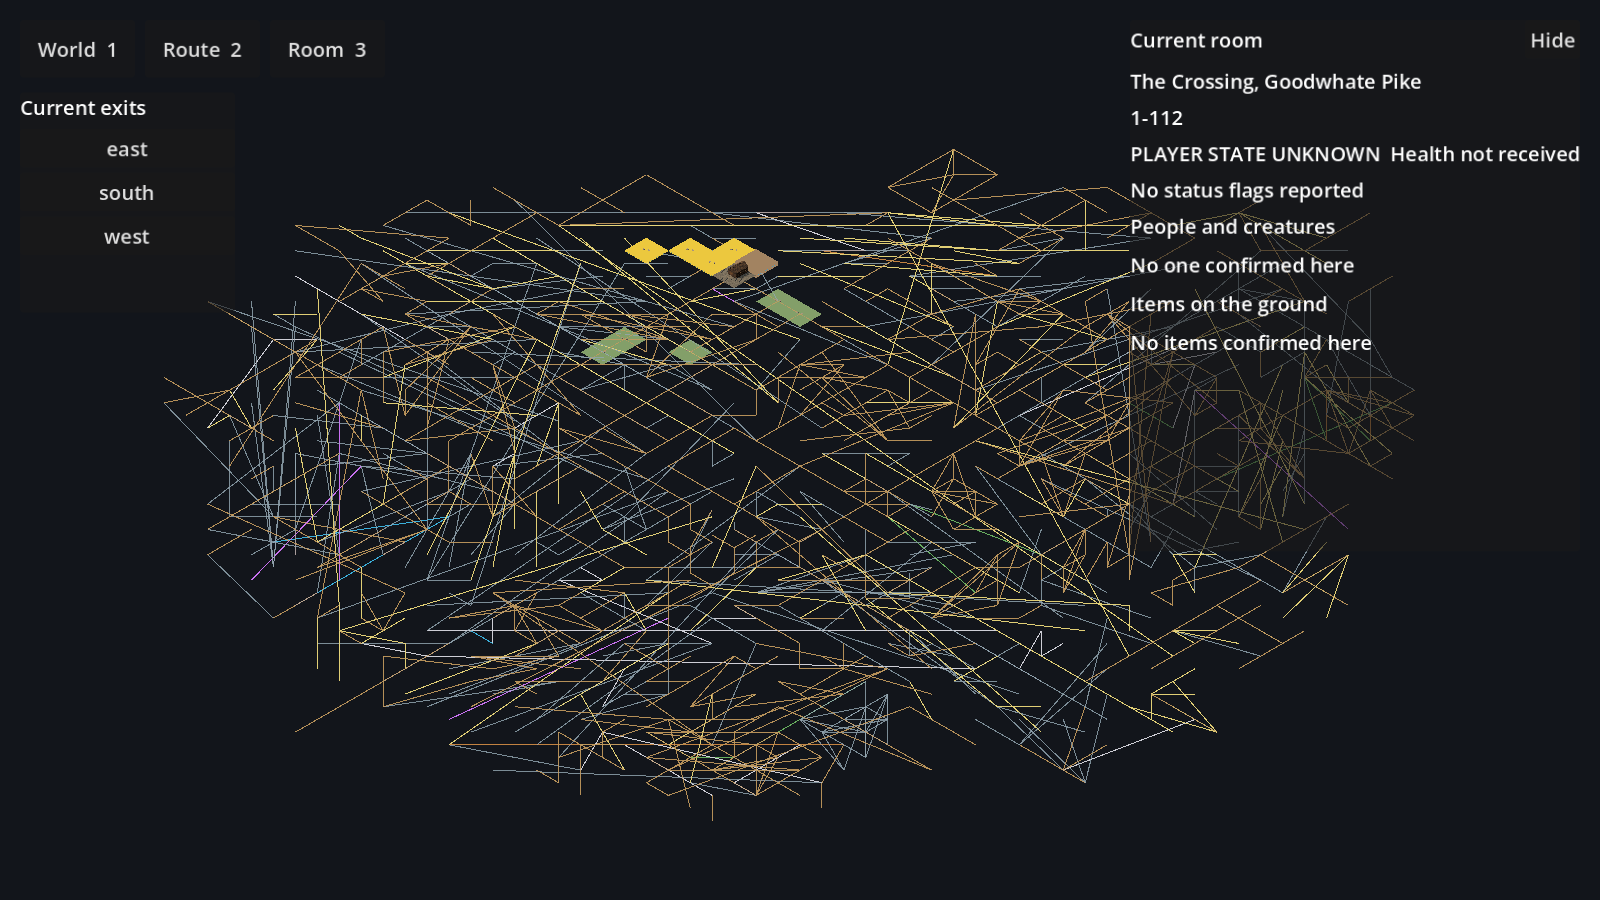
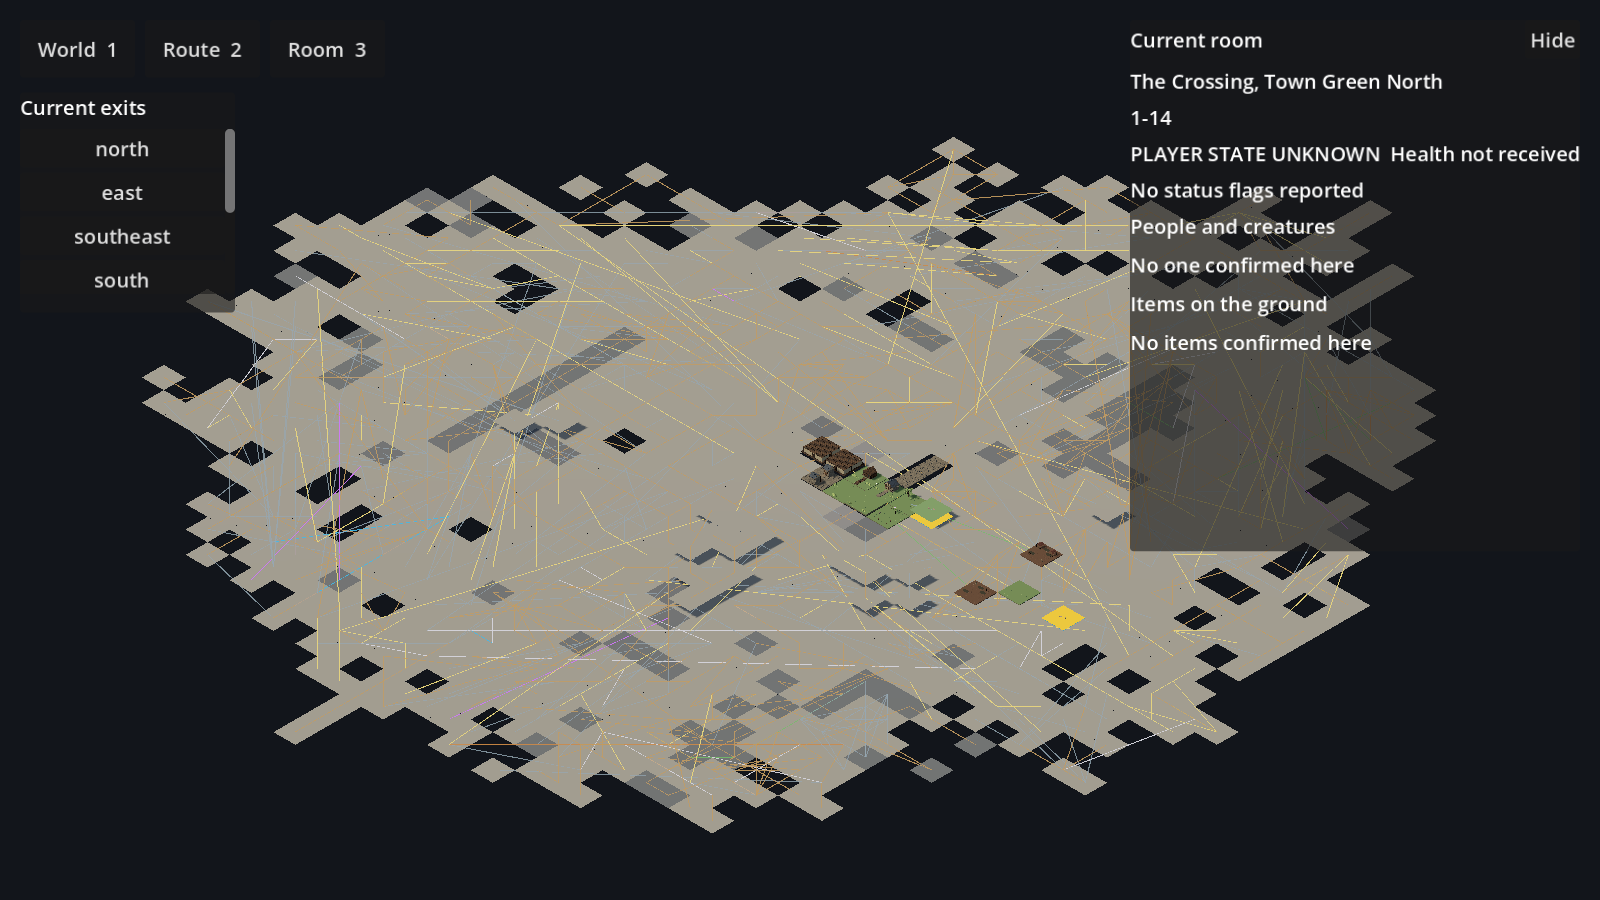
Keep truthful full-city footprints visible beyond the detail window

diff --git a/docs/verification/crossing-native-content.md b/docs/verification/crossing-native-content.md
@@ -400,6 +400,27 @@ silently enlarge scenery beyond known bounds.
 
 ## Reproduce
 
+### City-wide overview occupancy
+
+Every loaded room now retains one base-only overview representation through
+the existing ContentRegistry factory path. Detailed room mounting hides it;
+unmounting detail restores it. No additional landmarks, buildings, items,
+characters, exits or navigation are synthesized. The source board footprint
+remains authoritative. Missing-description cells use a darker neutral color;
+other unbuilt overview surfaces are neutral too, not a claim that every outdoor
+room is grass. An initial green/brown overview was rejected as misleading and
+replaced by this abstract treatment.
+
+This closes the visibility hole where most of the city became route lines
+over empty space. It does not close any room's art-completion gate: the full
+city still needs deliberate geography, streets, architecture and furnishings.
+The overview carries `base-only; not completed room art` metadata. The existing
+full-city content test checks all 1,060 overview holders, exactly one declared
+base each and explicit incomplete status. Detailed geometry remains limited
+to the actual-exit neighborhood; no whole-city prop instantiation is added.
+Use `capture-crossing-content.gd -- world` for an overview-only capture instead
+of replaying the room collection. The older optional shared-rock warning remains.
+
 ### Full-city local compass repair
 
 The shared offline/live layout compiler now uses actual compass exits after
